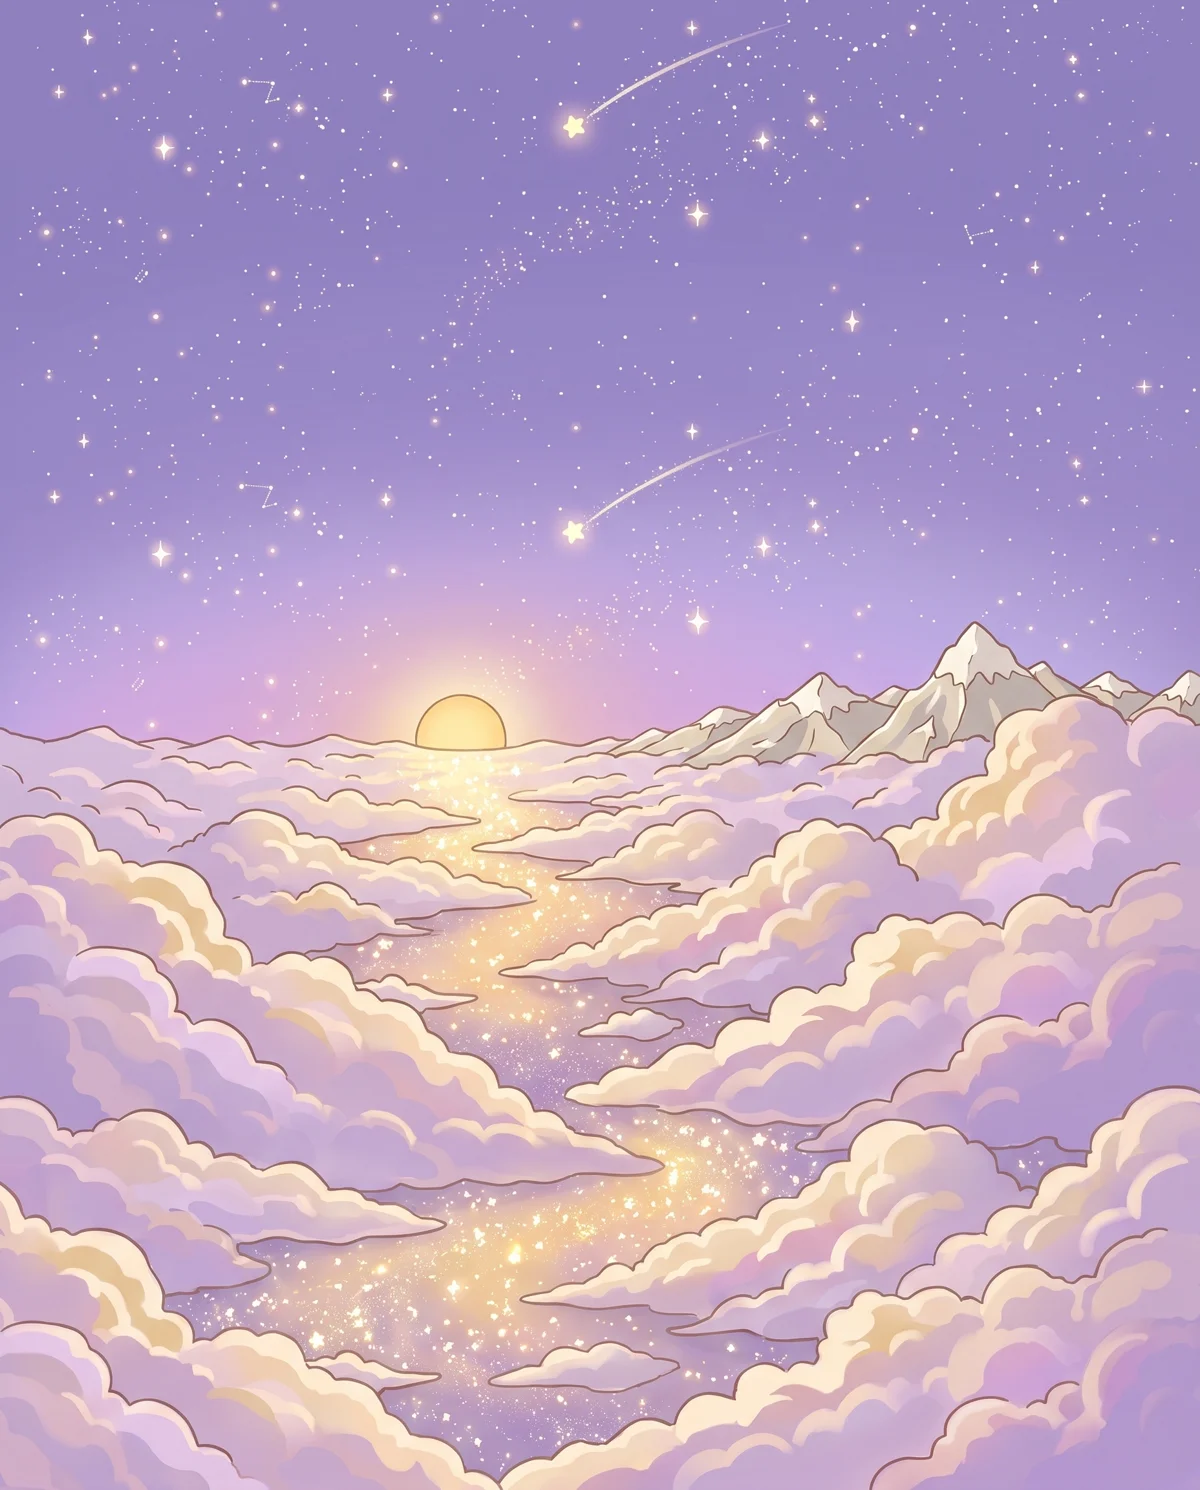
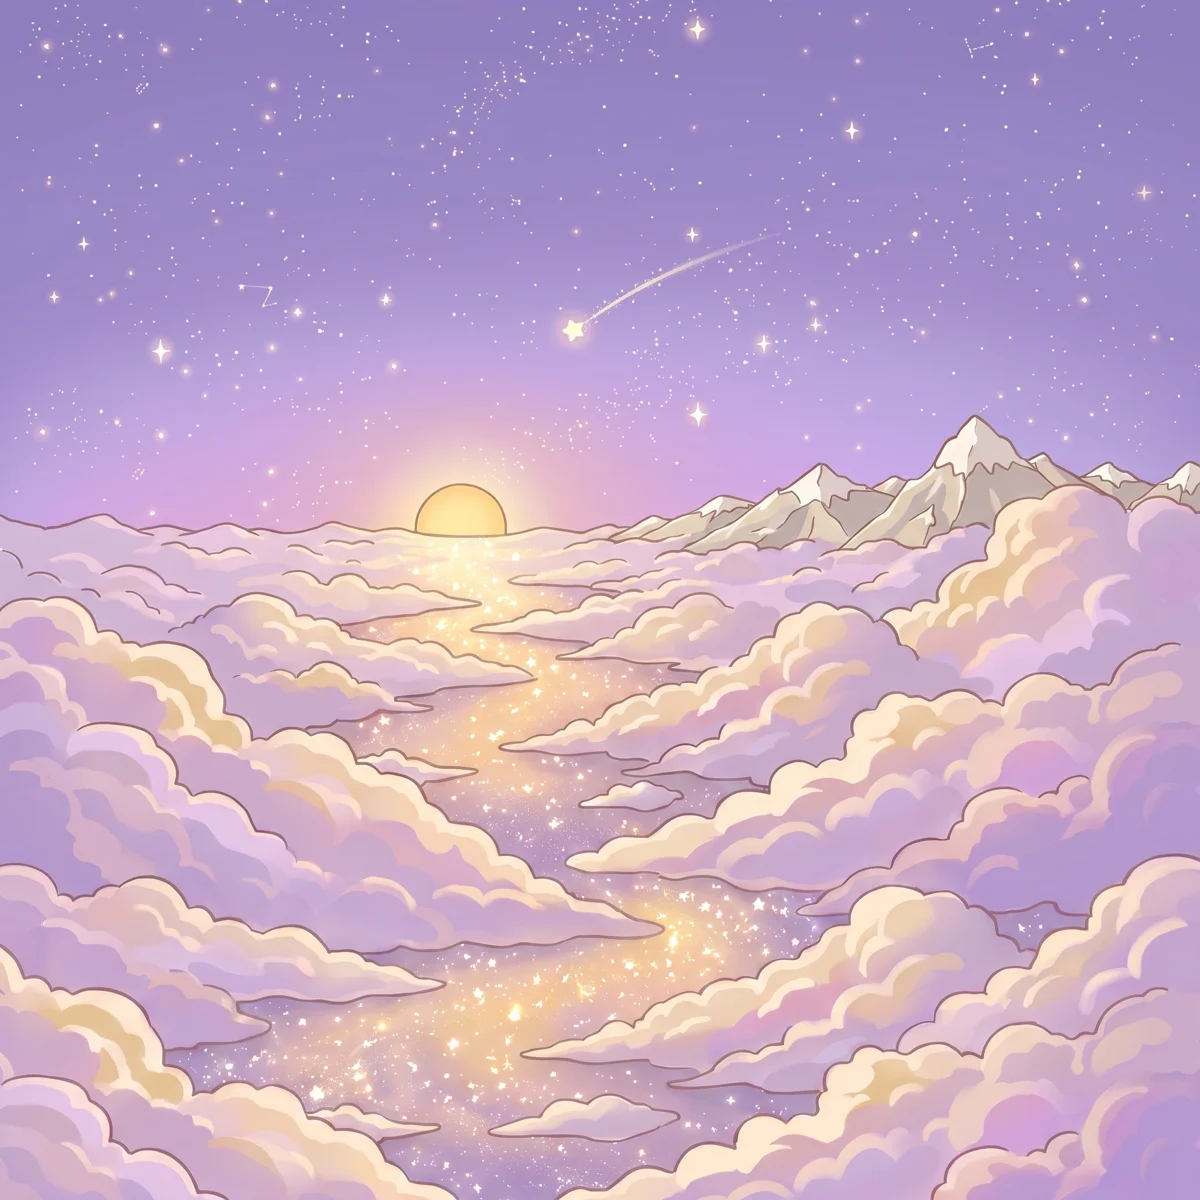
assets: 메인 히어로 배너 새 이미지로 교체 (v=2 캐시 무효화)

diff --git a/src/components/landing/ProductLineup.tsx b/src/components/landing/ProductLineup.tsx
@@ -193,7 +193,7 @@ export async function ProductLineup() {
       {/* 배너 이미지 */}
       <div className="mb-10">
         <img
-          src="/images/hero-banner.webp"
+          src="/images/hero-banner.webp?v=2"
           alt="3,900원 낭점에 오신 걸 환영합니다"
           className="w-full h-auto rounded-2xl"
         />
